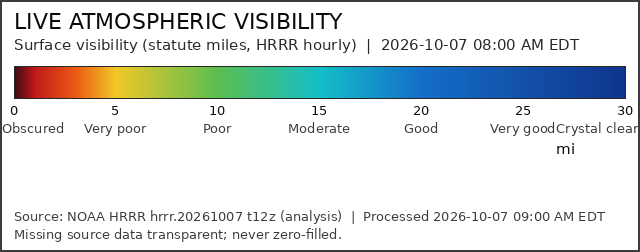
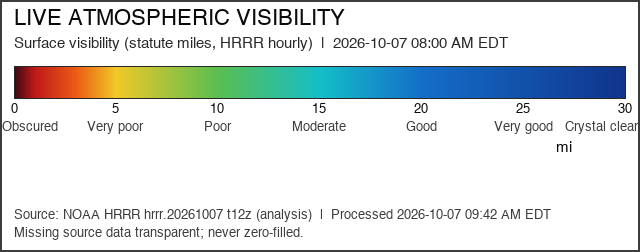
Visibility: gate uncorroborated dense-fog fills (fixes maroon blocks)
Sub-1-mile HRRR claims now require RH>=90%: uniform 200-500 m fills
over water at 80% RH (68% of low cells uncorroborated, 16 distinct
values basin-wide) rendered missing instead of maroon. Saturated fog
cores pass through untouched (12.9k px remain, all RH-corroborated).
g5 tag force-reloads clients.

diff --git a/scripts/build_visibility.py b/scripts/build_visibility.py
@@ -18,8 +18,7 @@ import traceback
 import numpy as np
 
 sys.path.insert(0, os.path.dirname(os.path.abspath(__file__)))
-from live_field import (SKIP_NOTE, finish, hrrr_field, refresh_kml,
-                        should_skip)
+from live_field import (SKIP_NOTE, finish, refresh_kml, should_skip)
 from geospatial_utils import (REPO_ROOT, SITE_DIR, load_bounds, now_det_str)
 
 PRODUCT = "visibility"
@@ -97,19 +96,47 @@ def run():
 
 
 def _build(dd, cc, source_id):
+    import hrrr
+    from derived_moisture import apply_fog_consistency_gate
+    from geospatial_utils import (bin_to_canvas, canvas_indices,
+                                  grib_stamp_to_det)
     bounds = load_bounds()
+    H, W = bounds["canvas_height"], bounds["canvas_width"]
+    base, _dd, _cc = hrrr.latest_cycle(30)
+    raw_path = os.path.join(RAW_DIR, "hrrr_vis_current.grib2")
+    hrrr.fetch_messages(base, raw_path,
+                        [("VIS", "surface"), ("RH", "2 m above ground")])
+    got = hrrr.read_messages(raw_path, {"VIS": 1, "RH": 1})
+    vv, la, lo, ddate, dtime = got["VIS"]
+    rhv = got["RH"][0]
+    data_time_utc = grib_stamp_to_det(ddate, dtime)
 
-    def _vals(got):
-        v, la, lo, ddate, dtime = got["VIS"]
-        v = np.asarray(v, dtype=float).ravel()
-        ok = np.isfinite(v) & (v >= CONFIG["valid_min_m"]) & (v <= CONFIG["valid_max_m"])
-        if int(ok.sum()) < 5_000:
-            raise ValueError(f"too few valid source cells ({int(ok.sum())})")
-        return np.where(ok, v * M2MI, np.nan), la, lo, ddate, dtime
+    def _bin(vals, ok):
+        v = np.asarray(vals, dtype=float).ravel()
+        la1 = np.asarray(la, dtype=float).ravel()
+        lo1 = (((np.asarray(lo, dtype=float).ravel() + 180) % 360) - 180)
+        rows, cols, _v = canvas_indices(la1, lo1, bounds)
+        inside = (np.isfinite(la1) & np.isfinite(lo1)
+                  & (la1 >= bounds["lat_min"]) & (la1 <= bounds["lat_max"])
+                  & (lo1 >= bounds["lon_min"]) & (lo1 <= bounds["lon_max"]))
+        field, _c = bin_to_canvas(rows, cols, np.where(ok, v, np.nan),
+                                  inside & np.isfinite(np.where(ok, v, np.nan)),
+                                  (H, W), splat_radius=2)
+        return field
 
-    raw, data_time_utc, _dd, _cc, _base = hrrr_field(
-        _vals, [("VIS", "surface")], "hrrr_vis_current.grib2",
-        bounds, RAW_DIR)
+    va = np.asarray(vv, dtype=float).ravel()
+    ra = np.asarray(rhv, dtype=float).ravel()
+    vis_mi = _bin(va * M2MI, np.isfinite(va)
+                  & (va >= CONFIG["valid_min_m"])
+                  & (va <= CONFIG["valid_max_m"]))
+    rh = _bin(ra, np.isfinite(ra) & (ra >= 0.0) & (ra <= 100.0))
+    # Model-consistency QC: sub-1-mile claims without saturated air are
+    # internally inconsistent (uniform 200–500 m fills over water at
+    # 80 % RH) and render as missing instead of maroon. Corroborated
+    # fog passes through untouched.
+    raw = apply_fog_consistency_gate(
+        vis_mi, rh, mi_threshold=1.0,
+        rh_min=CONFIG.get("corroboration_rh_min", 90.0))
     from live_field import smooth_nan
     # Light single-pass display smoothing: softens razor model-grid edges
     # while keeping the render crisp (a heavier blur read as low quality).
@@ -135,7 +162,10 @@ def _build(dd, cc, source_id):
         "NaN-aware display smoothing",
         "only [0,200000] m admitted pre-conversion (ultra-clear Arctic "
         "air often exceeds 60 km; gating lower punched transparent holes "
-        "in the clearest regions); values above 30 mi "
+        "in the clearest regions); sub-1-mile claims require RH>=90% "
+        "(model-consistency QC: dense fog inside dry air is internally "
+        "inconsistent fill, rendered missing instead of maroon); values "
+        "above 30 mi "
         "clamp into deep blue; full basin rectangle, no shoreline cut; "
         "missing analysis transparent; never zero-filled.",
         alpha=165, key_ticks=KEY_TICKS)

diff --git a/scripts/derived_moisture.py b/scripts/derived_moisture.py
@@ -62,6 +62,24 @@ def condensation_index(tmp_c, rh, dpt_c):
     return np.where(bad, np.nan, out)
 
 
+def apply_fog_consistency_gate(vis_mi, rh, mi_threshold=1.0,
+                              rh_min=90.0):
+    """Blank physically-impossible dense-fog claims (model speckles/fills).
+
+    Real sub-1-mile fog requires near-saturated air; when the model claims
+    dense fog inside dry air (e.g. uniform 300 m fills over water at
+    80 % RH), the claim is internally inconsistent and treated as missing
+    (transparent) rather than rendered as maroon. Corroborated fog passes
+    through untouched. NaN in -> NaN out.
+    """
+    vis_mi = np.asarray(vis_mi, dtype=float)
+    rh = np.asarray(rh, dtype=float)
+    with np.errstate(invalid="ignore"):
+        suspect = (np.isfinite(vis_mi) & np.isfinite(rh)
+                   & (vis_mi < mi_threshold) & (rh < rh_min))
+    return np.where(suspect, np.nan, vis_mi)
+
+
 def fog_risk_index(tmp_c, rh, dpt_c, vis_m, wspd_ms):
     """0..100 fog index v2: 0..35 thermodynamic risk, 35..100 active fog
     by observed density. NaN in -> NaN out."""

diff --git a/scripts/selftest.py b/scripts/selftest.py
@@ -663,6 +663,14 @@ def main():
     _fog_d2 = _dm.fog_risk_index(12.0, 98.0, 11.0, 2000.0, 1.0)
     check("fog-density-ordered",
           bool(float(_fog_d1) > float(_fog_d2) > 35.0), (_fog_d1, _fog_d2))
+    # visibility consistency gate: dry-air dense-fog claims blanked,
+    # corroborated fog passes through, clear air untouched
+    _g1 = _dm.apply_fog_consistency_gate(0.2, 80.0)
+    _g2 = _dm.apply_fog_consistency_gate(0.2, 96.0)
+    _g3 = _dm.apply_fog_consistency_gate(5.0, 80.0)
+    check("gate-blanks-dry-fog", bool(_np.isnan(_g1)), _g1)
+    check("gate-keeps-wet-fog", bool(float(_g2) == 0.2), _g2)
+    check("gate-ignores-clear", bool(float(_g3) == 5.0), _g3)
 
     # ---- Bortle key breakpoints (log-spaced, 9 classes cover 0-100) ----
     from build_light_pollution import (BORTLE_CLASSES, STOPS as _LP_STOPS,

diff --git a/scripts/live_field.py b/scripts/live_field.py
@@ -37,7 +37,7 @@ SKIP_NOTE = "Turn on/off independently of all other layers."
 # to force Google Earth clients to refetch an otherwise identical source
 # cycle after a rendering change (new ?v= without touching data or URLs).
 RENDER_TAGS = {
-    "visibility": "g4",
+    "visibility": "g5",
     "humidity": "g2",
     "light_pollution": "g4",
     "air_quality": "g2",

diff --git a/DATA_SOURCES.md b/DATA_SOURCES.md
@@ -726,7 +726,11 @@ the other products and the Pages publish proceed normally.
   render as soft TV-style gradients; single-cell speckles dissolve while
   coherent fog/low-vis areas persist; statistics on raw values).
   Meteorological (human/mariner/pilot) visibility, never
-  astronomical seeing. Overlay alpha 165 (slightly transparent, like
+  astronomical seeing. Model-consistency QC: sub-1-mile claims require
+  RH >= 90% — dense fog inside dry air is an internally inconsistent
+  model fill (uniform 200–500 m values, 68% uncorroborated basin-wide),
+  rendered missing instead of maroon; corroborated fog passes through.
+  Overlay alpha 165 (slightly transparent, like
   solar). Visibility and fog keys use an even two-row layout (values on
   row 1, severity words on row 2 at true linear positions) so labels can
   never overlap. Freshness: LIVE / CURRENT MODEL (analysis).
